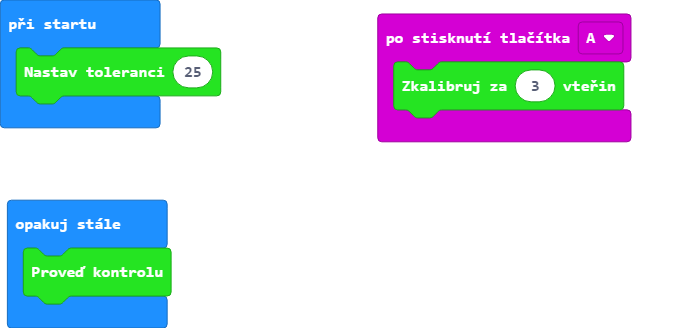
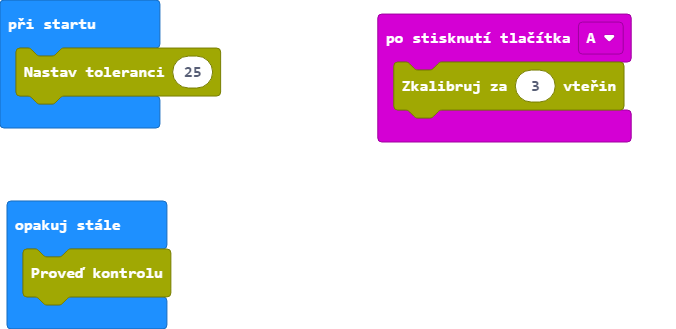
color changed

diff --git a/lightgate.ts b/lightgate.ts
@@ -7,7 +7,7 @@
 /**
  * Custom blocks
  */
-//% weight=100 color=#25E422 icon="\uf030"
+//% weight=100 color=#a0a803 icon="\uf030"
 namespace Svetelna_Brana {
     let toleration = 0
     let calibrated = false
